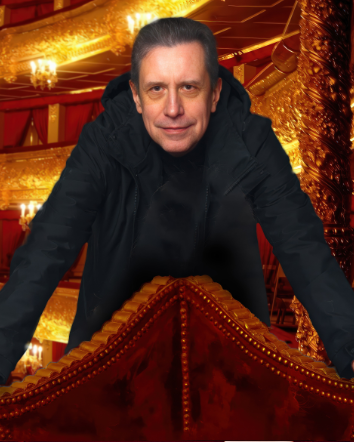
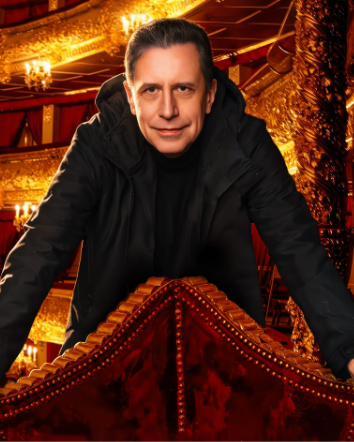
Add files via upload

diff --git a/index.html b/index.html
@@ -364,7 +364,7 @@
       <article class="member">
         <div class="member__photo">
           <div class="role-tab">Инициатор проекта</div>
-          <img src="assets/ivan-card.png?v=2" crossorigin="anonymous" alt="Иван Василёв">
+          <img src="assets/ivan-card.png?v=3" crossorigin="anonymous" alt="Иван Василёв">
         </div>
         <div class="member__body">
           <h3 class="member__name">Иван Василёв</h3>
